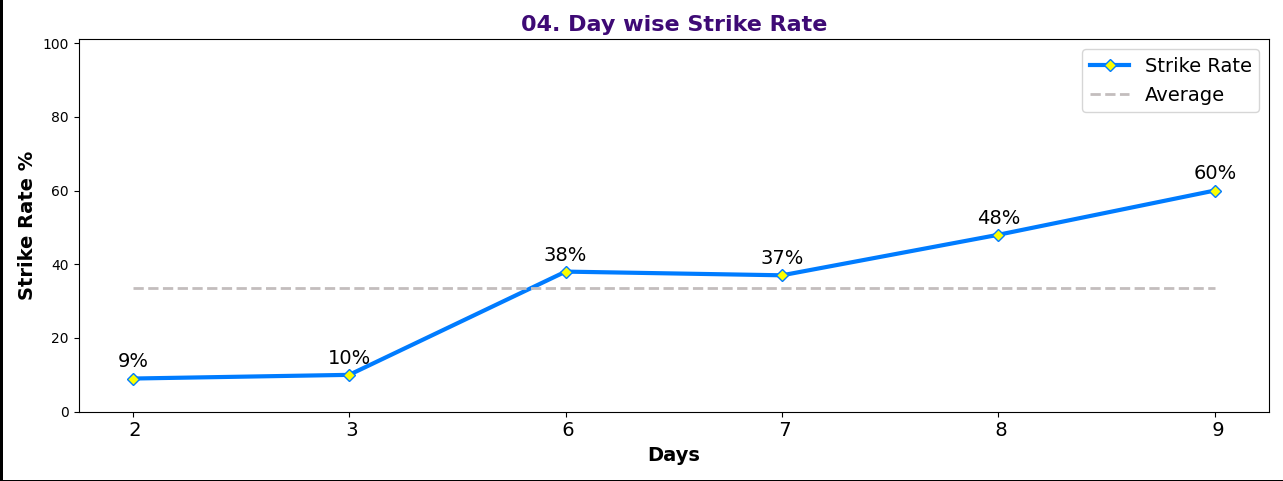
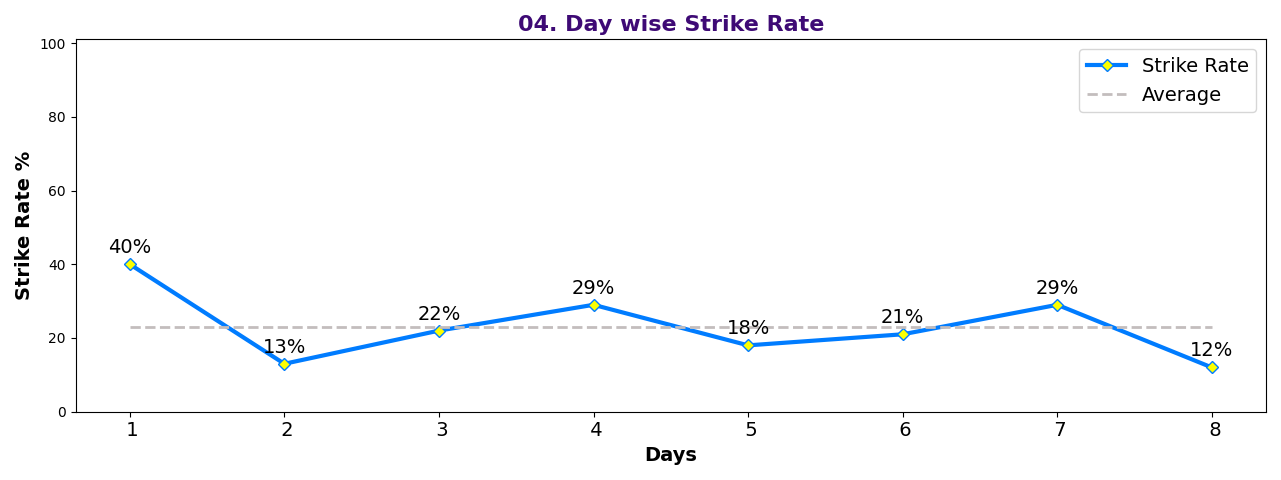
Day wise strike_rate_figure.py figure added

diff --git a/setup.py b/setup.py
@@ -119,16 +119,18 @@ import Functions.dashboard as dash
 import Functions.sales_figure as salesf
 import Functions.sales_kg_figure as saleskg
 import Functions.visit_rate_figure as visit_fig
+import Functions.strike_rate_figure as strike_rate_fig
 
-dash.generate_dashboard(sr_name, reporting_boss, trg_val, sales_val, trg_kg, sales_kg, days_in_month,
-                        current_day, trend_val, return_val, return_kg, visit_rate, strike_rate, lpc, val_drop_size,
-                        w_drop_size, trend_w_kg, w_trend_per)
+# dash.generate_dashboard(sr_name, reporting_boss, trg_val, sales_val, trg_kg, sales_kg, days_in_month,
+#                         current_day, trend_val, return_val, return_kg, visit_rate, strike_rate, lpc, val_drop_size,
+#                         w_drop_size, trend_w_kg, w_trend_per)
+#
+# salesf.sales_val_chart(brand_list, sales_val_list, branch_mtd_target_list)
+# saleskg.sales_kg_chart(brand_list, sales_kg_list, branch_mtd_target_kg_list)
+# visit_fig.day_wise_visit_rate(visit_days, day_visit_rate)
 
-salesf.sales_val_chart(brand_list, sales_val_list, branch_mtd_target_list)
-saleskg.sales_kg_chart(brand_list, sales_kg_list, branch_mtd_target_kg_list)
-visit_fig.day_wise_visit_rate(visit_days, day_visit_rate)
+strike_rate_fig.day_wise_strike_rate(strike_days, day_strike_rate)
 
-# fg.day_wise_strike_rate()
 # fg.day_wise_lpc_rate()
 # fg.day_wise_drop_size_value()
 

diff --git a/Functions/strike_rate_figure.py b/Functions/strike_rate_figure.py
@@ -1,0 +1,33 @@
+import numpy as np
+import matplotlib.pyplot as plt
+
+
+def day_wise_strike_rate(strike_days, day_strike_rate):
+    range(1, len(strike_days) + 1, 1)
+    ypos = np.arange(len(strike_days))
+    # range(len(d.strike_days1))
+    avg = []
+    for i in range(len(day_strike_rate)):
+        a = sum(day_strike_rate) / len(day_strike_rate)
+        avg.append(a)
+
+    fig, ax = plt.subplots(figsize=(12.81, 4.8))
+    plt.ylim(0, 101, 10)
+    plt.plot(day_strike_rate, color='#007cff', linewidth='3', marker='D', markerfacecolor="#fcff00")
+    plt.plot(avg, color='#c3bdbd', linestyle='--', linewidth='2')
+
+    # Show data point ----------------------------------------
+    for i, v in enumerate(day_strike_rate):
+        ax.text(i, v + 3, str(v) + '%', ha="center", fontsize='14')
+
+    ax.set_xticks(ypos)
+    ax.set_xticklabels(strike_days, fontsize=14)
+
+    plt.title('04. Day wise Strike Rate', fontsize=16, fontweight='bold', color='#3e0a75')
+    plt.xlabel('Days', fontsize='14', color='black', fontweight='bold')
+    plt.ylabel('Strike Rate %', fontsize='14', color='black', fontweight='bold')
+    plt.legend(['Strike Rate', 'Average'], loc='best', fontsize='14')
+    plt.tight_layout()
+    # plt.show()
+    # print('Fig 04: Day wise strike rate generated')
+    return plt.savefig('./Images/day_wise_strike_rate.png')
